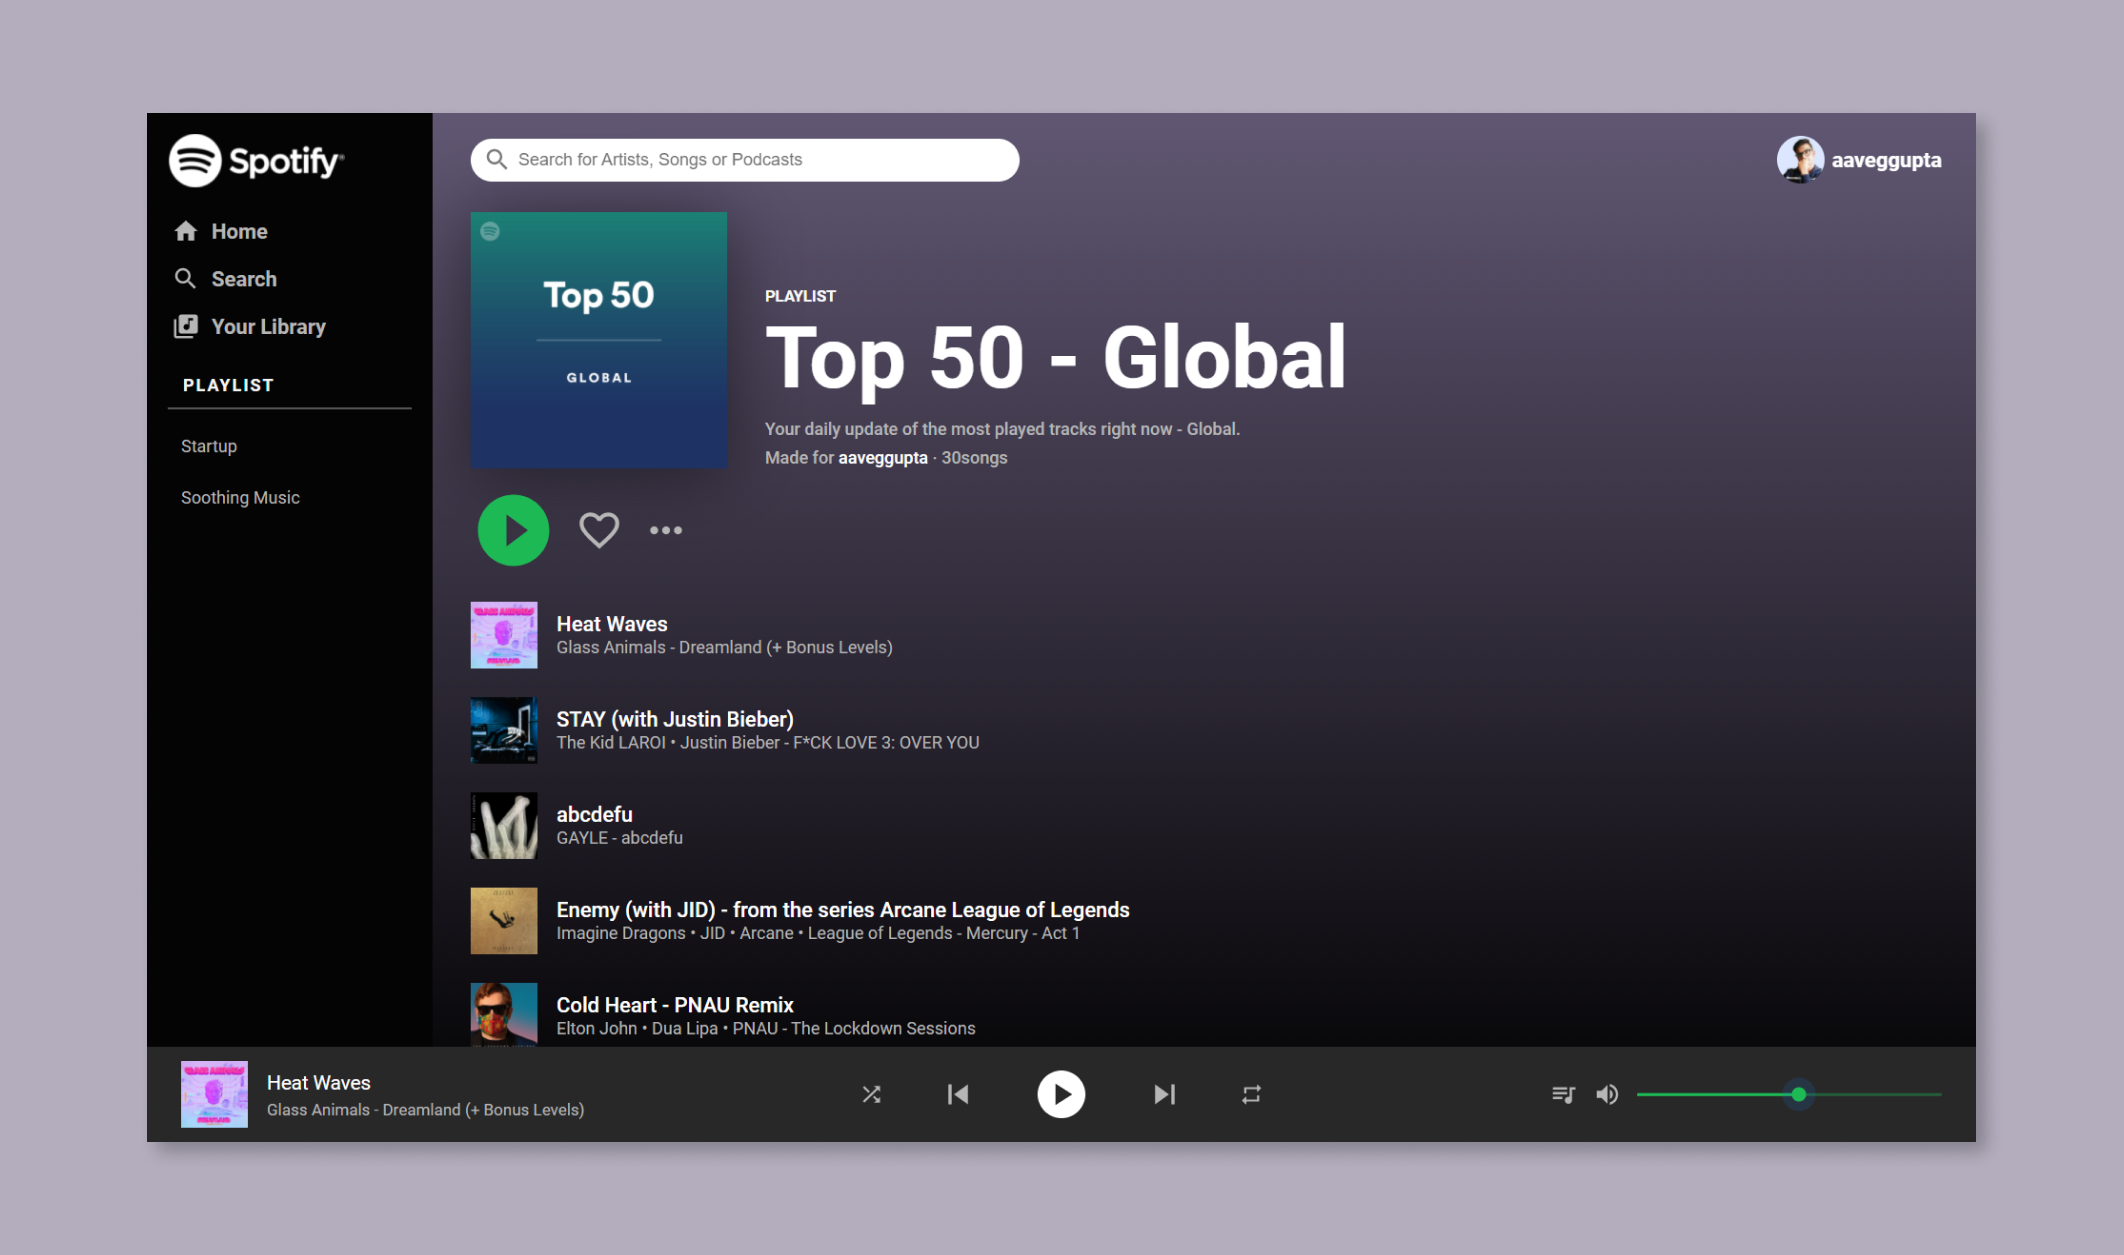
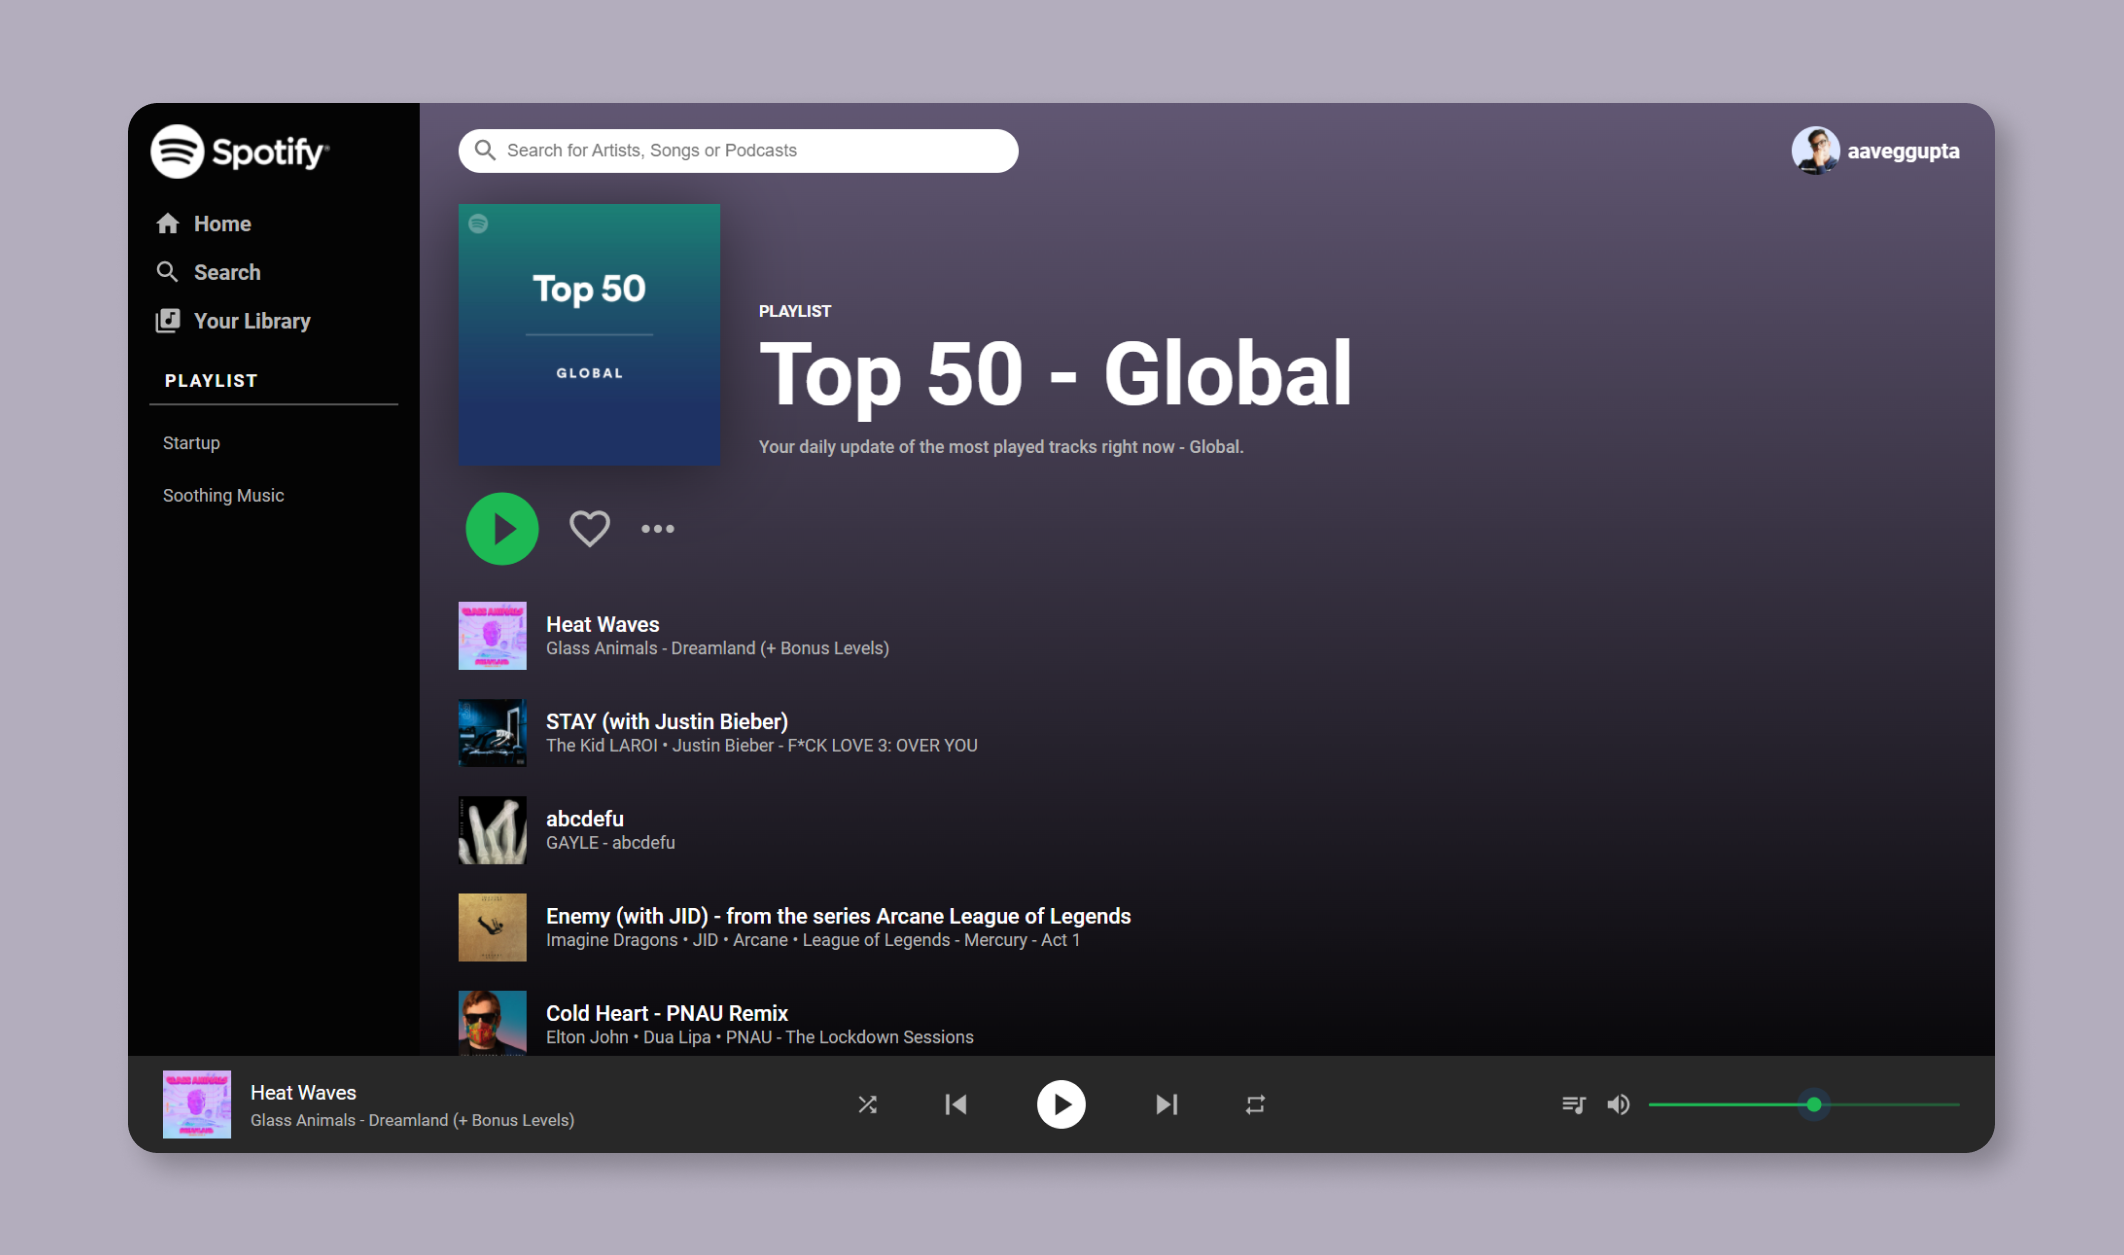
readme updated

Changed region(s): [[0.0621, 0.0622, 0.9633, 0.9323], [0.3107, 0.2175, 0.6525, 0.3729]]

diff --git a/src/Components/PlayerBody/PlayerBody.js b/src/Components/PlayerBody/PlayerBody.js
@@ -30,11 +30,6 @@ const PlayerBody = ({ spotify }) => {
           <h5 className="player-body__dw-right-text">
             {discoverWeekly?.description}
           </h5>
-          <h5 className="player-body__dw-right-madefor">
-            Made for{" "}
-            <span style={{ color: "white" }}>{user?.display_name}</span> ·
-            30songs
-          </h5>
         </div>
       </div>
       <div className="player-body__icons">
